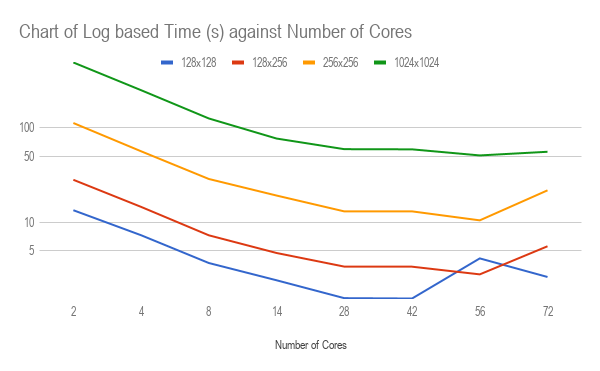
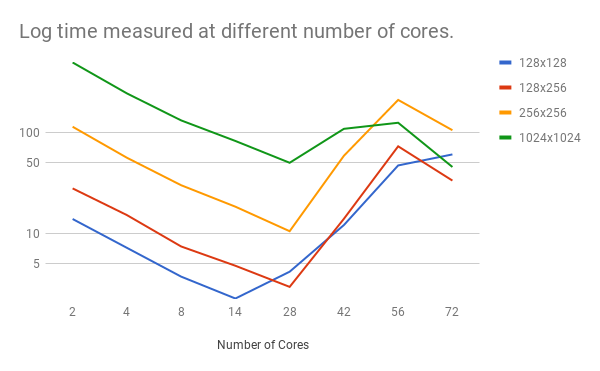
removing reduce

diff --git a/mpi/d2q9-bgk.c b/mpi/d2q9-bgk.c
@@ -298,7 +298,6 @@ float func_gatherVelocity(const t_param params,  t_speed *cells, int* obstacles)
 
     //if(rank == MASTER){printf("Collect has value : %f before reduce\n",collect);}
     MPI_Reduce(&av, &collect, 1, MPI_FLOAT, MPI_SUM, 0, MPI_COMM_WORLD);
-    MPI_Reduce(&numOfCells, &collect_cells , 1, MPI_INT, MPI_SUM, 0, MPI_COMM_WORLD);
     //if(rank == MASTER){printf("Collect has value : %f after reduce\n",collect);}
 
 
@@ -306,7 +305,7 @@ float func_gatherVelocity(const t_param params,  t_speed *cells, int* obstacles)
     if(rank == MASTER){
         // collect_cells += numOfCells;
         // printf("Master has av as : %f\n",collect);
-        collect = (collect/(float) collect_cells);
+        collect = (collect/(float) numOfCells);
         av = collect;
         return collect;
     }
@@ -966,11 +965,22 @@ int func_initialise(const char* paramfile, const char* obstaclefile,
   /* and close the file */
   fclose(fp);
 
+  for (int jj = 0; jj < params->ny; jj++)
+  {
+    for (int ii = 0; ii < params->nx; ii++)
+    {
+      if(!obstacles){
+          numOfCells +=1;
+      }
+    }
+  }
+
   /*
   ** allocate space to hold a record of the avarage velocities computed
   ** at each timestep
   */
   *av_vels_ptr = (float*)malloc(sizeof(float) * params->maxIters);
+
 
   return EXIT_SUCCESS;
 }
